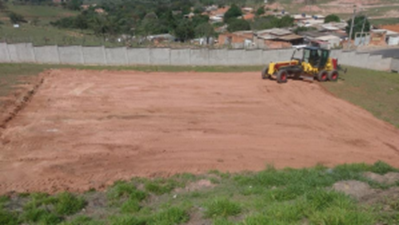
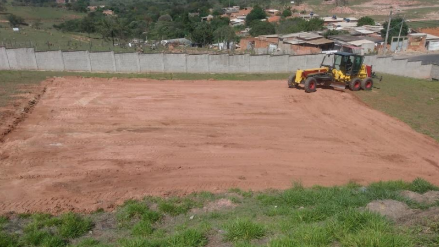
atualizando textos e imagens de Historias de Vida, App Ean e Horta e versão

diff --git a/src/components/TecnologiasSociais/AppEanDcnt/AppEanDcnt.js b/src/components/TecnologiasSociais/AppEanDcnt/AppEanDcnt.js
@@ -1,20 +1,75 @@
 import React from 'react'
 import TopoDaPagina from '../../TopoDaPagina/TopoDaPagina'
 import './AppEanDcnt.css'
+import foto1 from '../../../assets/images/TecnologiasSociais/appEan/foto1.png'
+import foto2 from '../../../assets/images/TecnologiasSociais/appEan/foto2.png'
 
 const AppEanDcnt = () => {
   return (
     <div>
       <TopoDaPagina menu="Tecnologias Sociais" submenu="App EAN/DCNTs" />
       <div className="container-fluid AppEanDcnt">
-        <div className="row">
+        <div className="row justify-content-center">
           <div className="col-md-2"></div>
-          <div className="col-md-8">
-            AppEanDcnt
+          <div className="col-md-8 row justify-content-center">
+            <img className="img-fluid" src={foto1} alt='Imagem do App Ean DCNT' />
           </div>
+          <div className="col-md-2"></div>
+          <div className="col-md-2"></div>
+          <div className="col-md-8 row justify-content-center">
+            <div className="texto1">
+              <p>
+                <b>Aplicativo de Educação Alimentar e Nutricional como tecnologia social para a Educação de Jovens e Adultos na cidade de Campinas</b>
+              </p>
+              <p>
+                <b>Objetivos: </b> Organizar e apresentar de forma clara, simples e acessível os componentes de
+                uma alimentação saudável e como eles estão inseridos em nossa alimentação por meio de um
+                jogo eletrônico de perguntas e respostas.
+              </p>
+              <p>
+                <b>Resultados:</b> Todos os requisitos para finalizar a primeira versão do aplicativo do projeto
+                foram concluídos, tendo um ótimo feedback da amostra do público alvo na validação
+                participativa, com relatos de features que podem melhorar como: mais opções de respostas
+                dos feedbacks, descrição dos quizes em relação ao áudio, dificuldade com cores, dificuldade
+                em relação a informações cadastrais (localização de sua região) e aumento da imersão para
+                maior aprendizado. E também sugestões do que futuramente pode ser adicionado como:
+                botão de aumentar o volume mais do que o permitido, seta para abaixar e subir em questões
+                mais longas, número para exibir a quantidade fracionária exata em relação às imagens, botão
+                para visualizar a senha ao cadastrar/logar e alteração do ícone de botão de áudio.
+              </p>
+              <p>
+                <b>Orientadora:</b> Profª Joice Barbosa Mendes.
+              </p>
+              <p>
+                <b>Co-orientadora:</b> Profª Erika Batista.
+              </p>
+              <p>
+                <b>Bolsista:</b> Bruno Povliuk
+              </p>
+              <p>
+                <b>Financiamento: </b>CNPq (PIBIC-2022/2023) e IFSP – CMP.
+              </p>
+            </div>
+          </div>
+          <div className="col-md-2"></div>
+          <div className="col-md-2"></div>
+          <div className="col-md-8 row justify-content-center">
+            <img className="img-fluid" src={foto2} alt='Imagem do App Ean DCNT' />
+          </div>
+          <div className="col-md-2"></div>
+
+          <div className="col-md-2"></div>
+          <div className="col-md-8 row justify-content-center mb-2">
+            <div className="texto1"> <p>
+              <b>Imagens que ilustram o trabalho desenvolvido</b>
+            </p>
+            </div>
+          </div>
+          <div className="col-md-2"></div>
         </div>
+
       </div>
-    </div>
+    </div >
   )
 }
 

diff --git a/src/components/TecnologiasSociais/HortaExperimental/HortaExperimental.js b/src/components/TecnologiasSociais/HortaExperimental/HortaExperimental.js
@@ -2,6 +2,8 @@ import React from 'react'
 import TopoDaPagina from '../../TopoDaPagina/TopoDaPagina'
 import './HortaExperimental.css'
 import foto1 from '../../../assets/images/TecnologiasSociais/HortaExperimental/foto1.png'
+import foto2 from '../../../assets/images/TecnologiasSociais/HortaExperimental/foto2.png'
+
 //em andamento
 
 const HortaExperimental = () => {
@@ -9,10 +11,10 @@ const HortaExperimental = () => {
     <div>
       <TopoDaPagina menu="Tecnologias Sociais" submenu="Horta Experimental" />
       <div className="container-fluid HortaExperimental">
-        <div className="row">
+        <div className="row justify-content-center">
           <div className="col-md-2"></div>
-          <div className="col-md-8">
-            <img src={foto1} width='100%' alt='Imagem da Horta Experimental'/>
+          <div className="col-md-8 row justify-content-center">
+            <img src={foto1} className="img-fluid" alt='Professoras e bolsistas montando a leira, juntamente com um técnico agrícola.' />
             <div className="texto1">
               <p>
                 O cultivo agroecológico é uma forma de plantio que busca o
@@ -43,6 +45,22 @@ const HortaExperimental = () => {
               </p>
             </div>
           </div>
+          <div className="col-md-2"></div>
+          <div className="col-md-2"></div>
+          <div className="col-md-8 row justify-content-center">
+            <img className="img-fluid" src={foto2} alt='Máquina agrícola fazendo o revolvimento do solo' />
+          </div>
+          <div className="col-md-2"></div>
+
+          <div className="col-md-2"></div>
+          <div className="col-md-8 row justify-content-center mb-2">
+            <div className="texto1"> <p>
+              <b>Máquina agrícola fazendo o revolvimento do solo</b>
+            </p>
+            </div>
+          </div>
+          <div className="col-md-2"></div>
+
         </div>
       </div>
     </div>

diff --git a/src/components/EducacaoPopular/HistoriasDeVida/HistoriasDeVida.js b/src/components/EducacaoPopular/HistoriasDeVida/HistoriasDeVida.js
@@ -18,9 +18,8 @@ const HistoriasDeVida = () => {
           <div className="col-md-8 row justify-content-center">
             <img
               src={foto1}
-              width="100%"
               alt="Imagem Histórias de vida"
-              style={{ maxWidth: 900 }}
+              className="img-fluid"
             />
             <div className="texto1">
               <p>
@@ -50,6 +49,11 @@ const HistoriasDeVida = () => {
               <p><b>Orientadora:</b>  Profª Erika Batista.</p>
               <p><b>Bolsista:</b>  Isabelli Thais Messias Costa – aluna do 1° ano do Curso de Eletrônica Integrado ao Ensino Médio.</p>
             </div>
+          </div>
+          <div className="col-md-2"></div>
+          <div className="col-md-2"></div>
+          <div className="col-md-8 row justify-content-center mb-4">
+            <img className="img-fluid" src={foto2} alt='Imagem Histórias de vida 2 - projeto social' />
           </div>
           <div className="col-md-2"></div>
         </div>

diff --git a/src/components/Navigation/Footer/Footer.js b/src/components/Navigation/Footer/Footer.js
@@ -3,6 +3,7 @@ import './Footer.css'
 import { NavLink } from 'react-router-dom';
 import phoneIcon from '../../../assets/images/icons/phoneicon.svg';
 import emailIcon from '../../../assets/images/icons/emailicon.svg';
+import packageJson from '../../../../package.json';
 
 
 const footer = () => {
@@ -88,7 +89,7 @@ const footer = () => {
                     </div>
                     <div className="row justify-content-center">
                         <small>
-                        1.0.0 - 2022
+                        @{packageJson.version} - 2023
                         </small>
                     </div>
                 </div>
